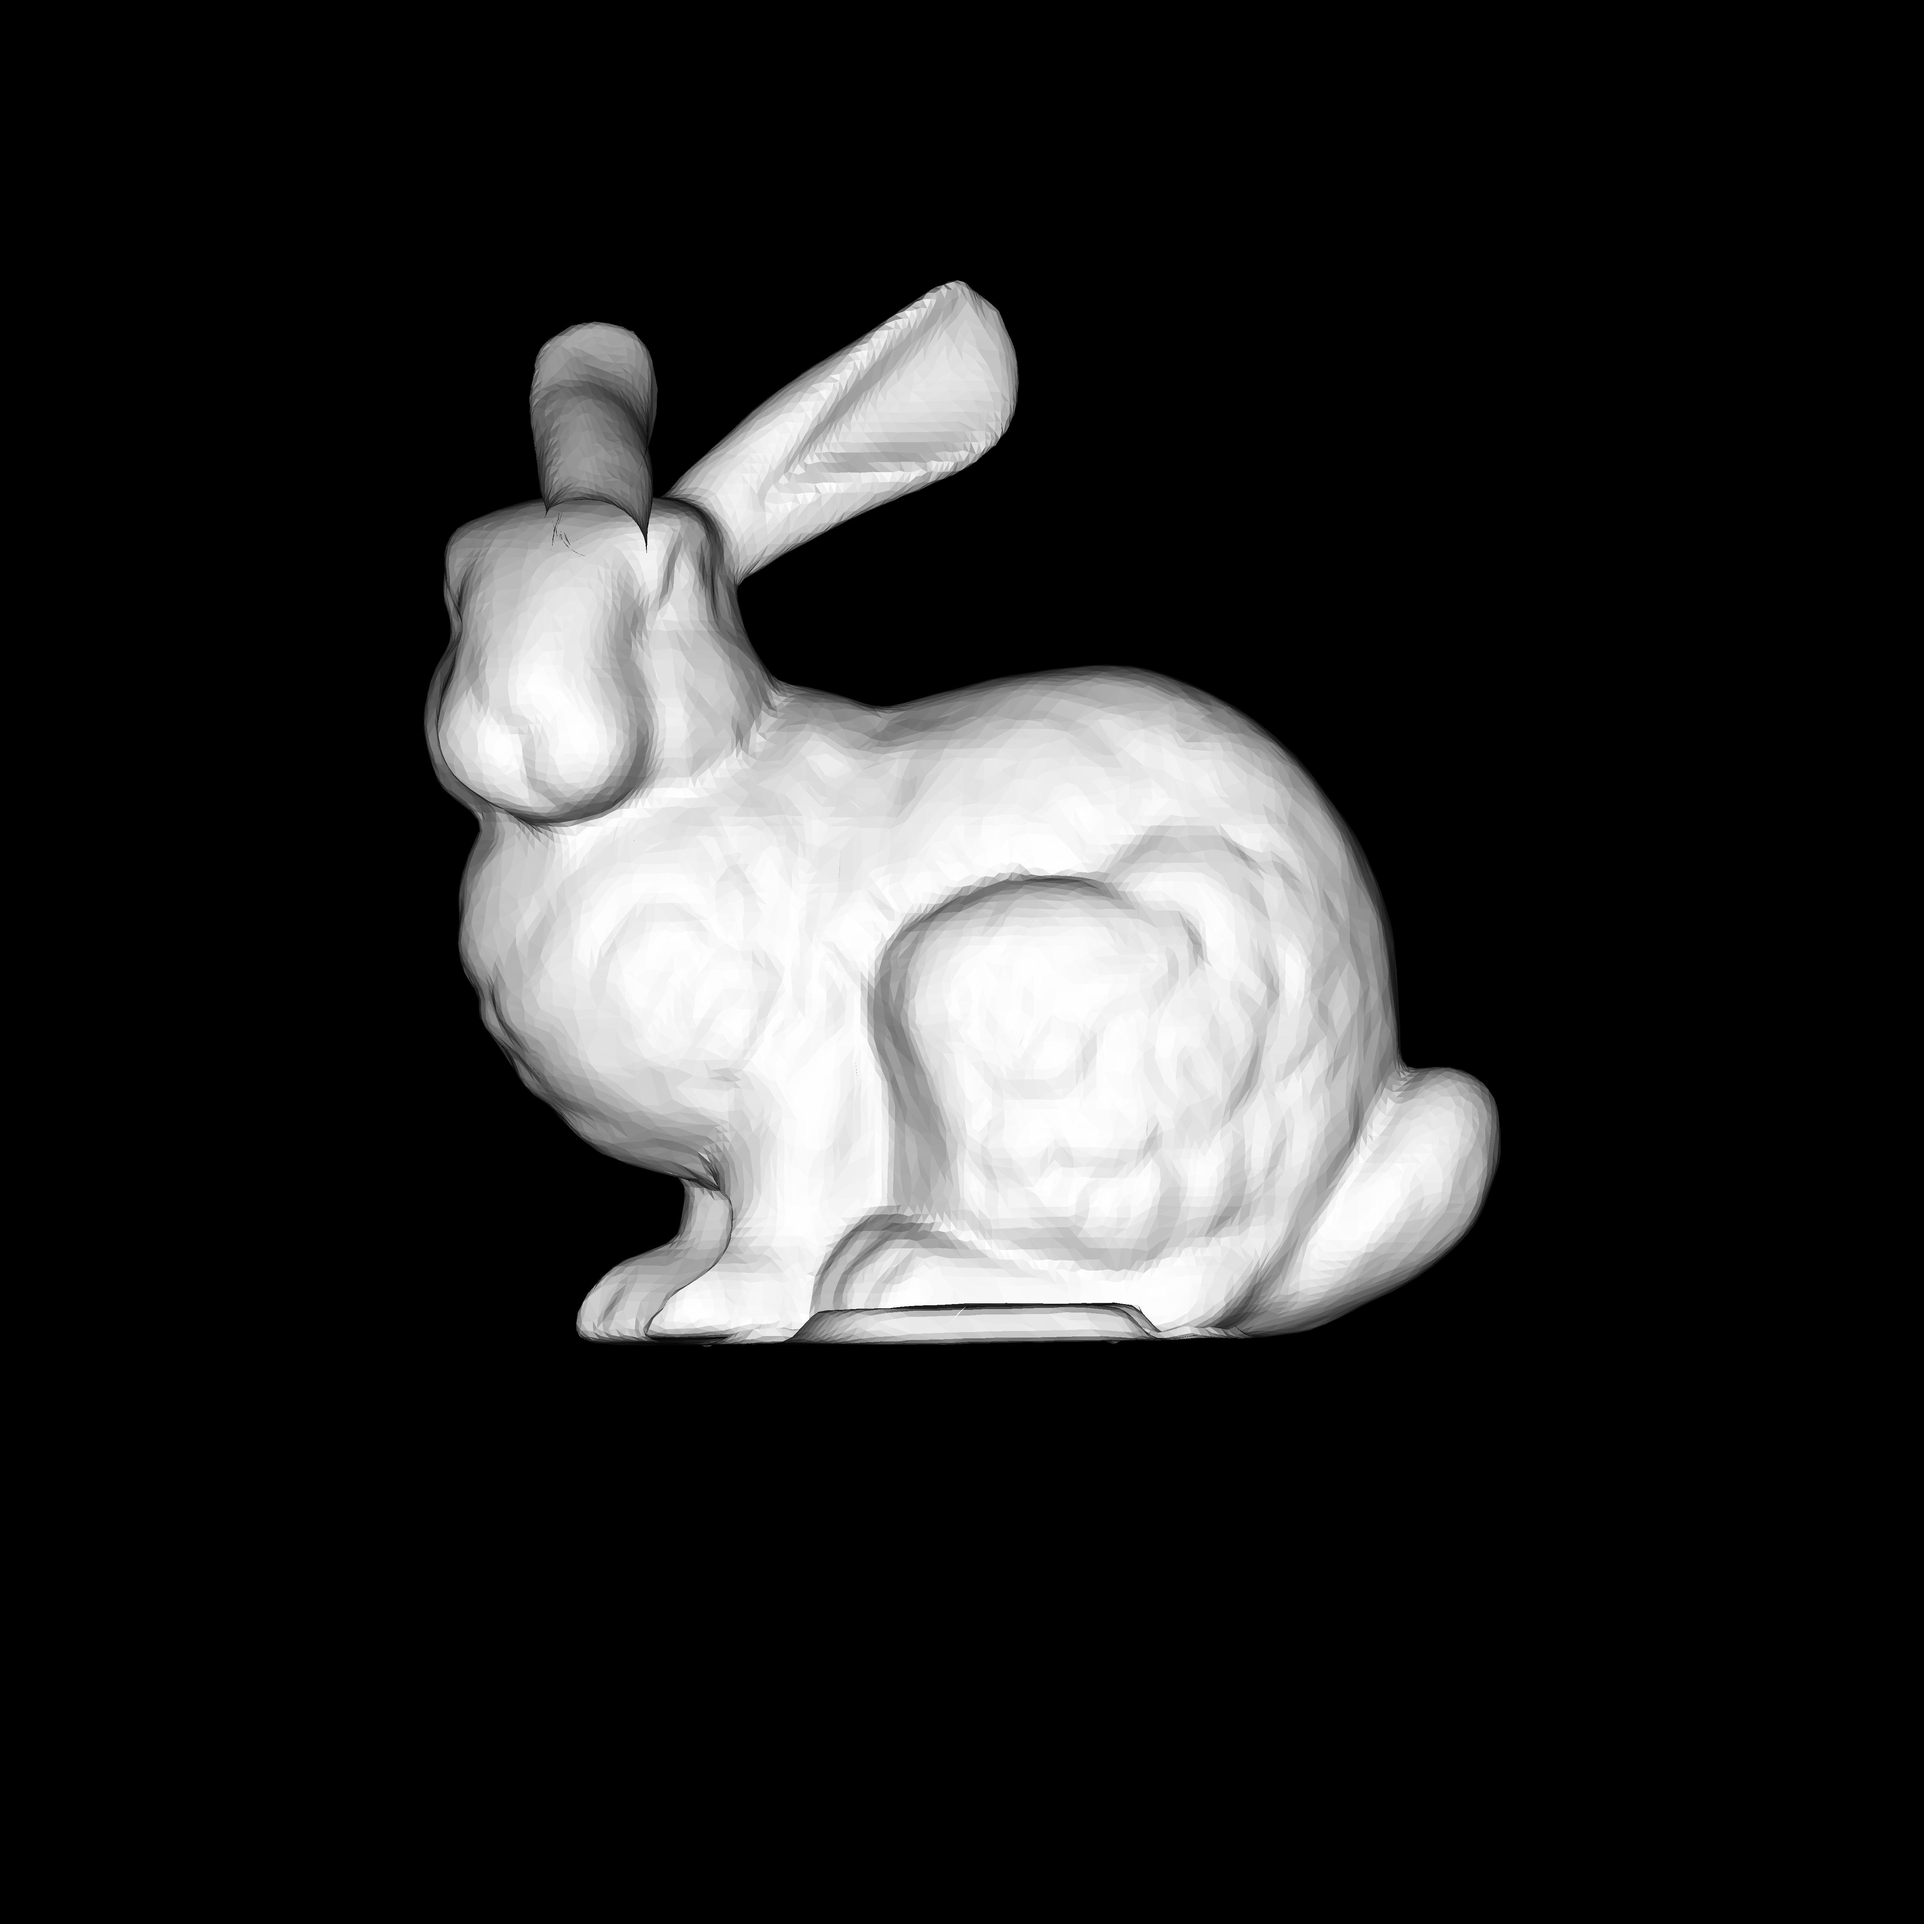
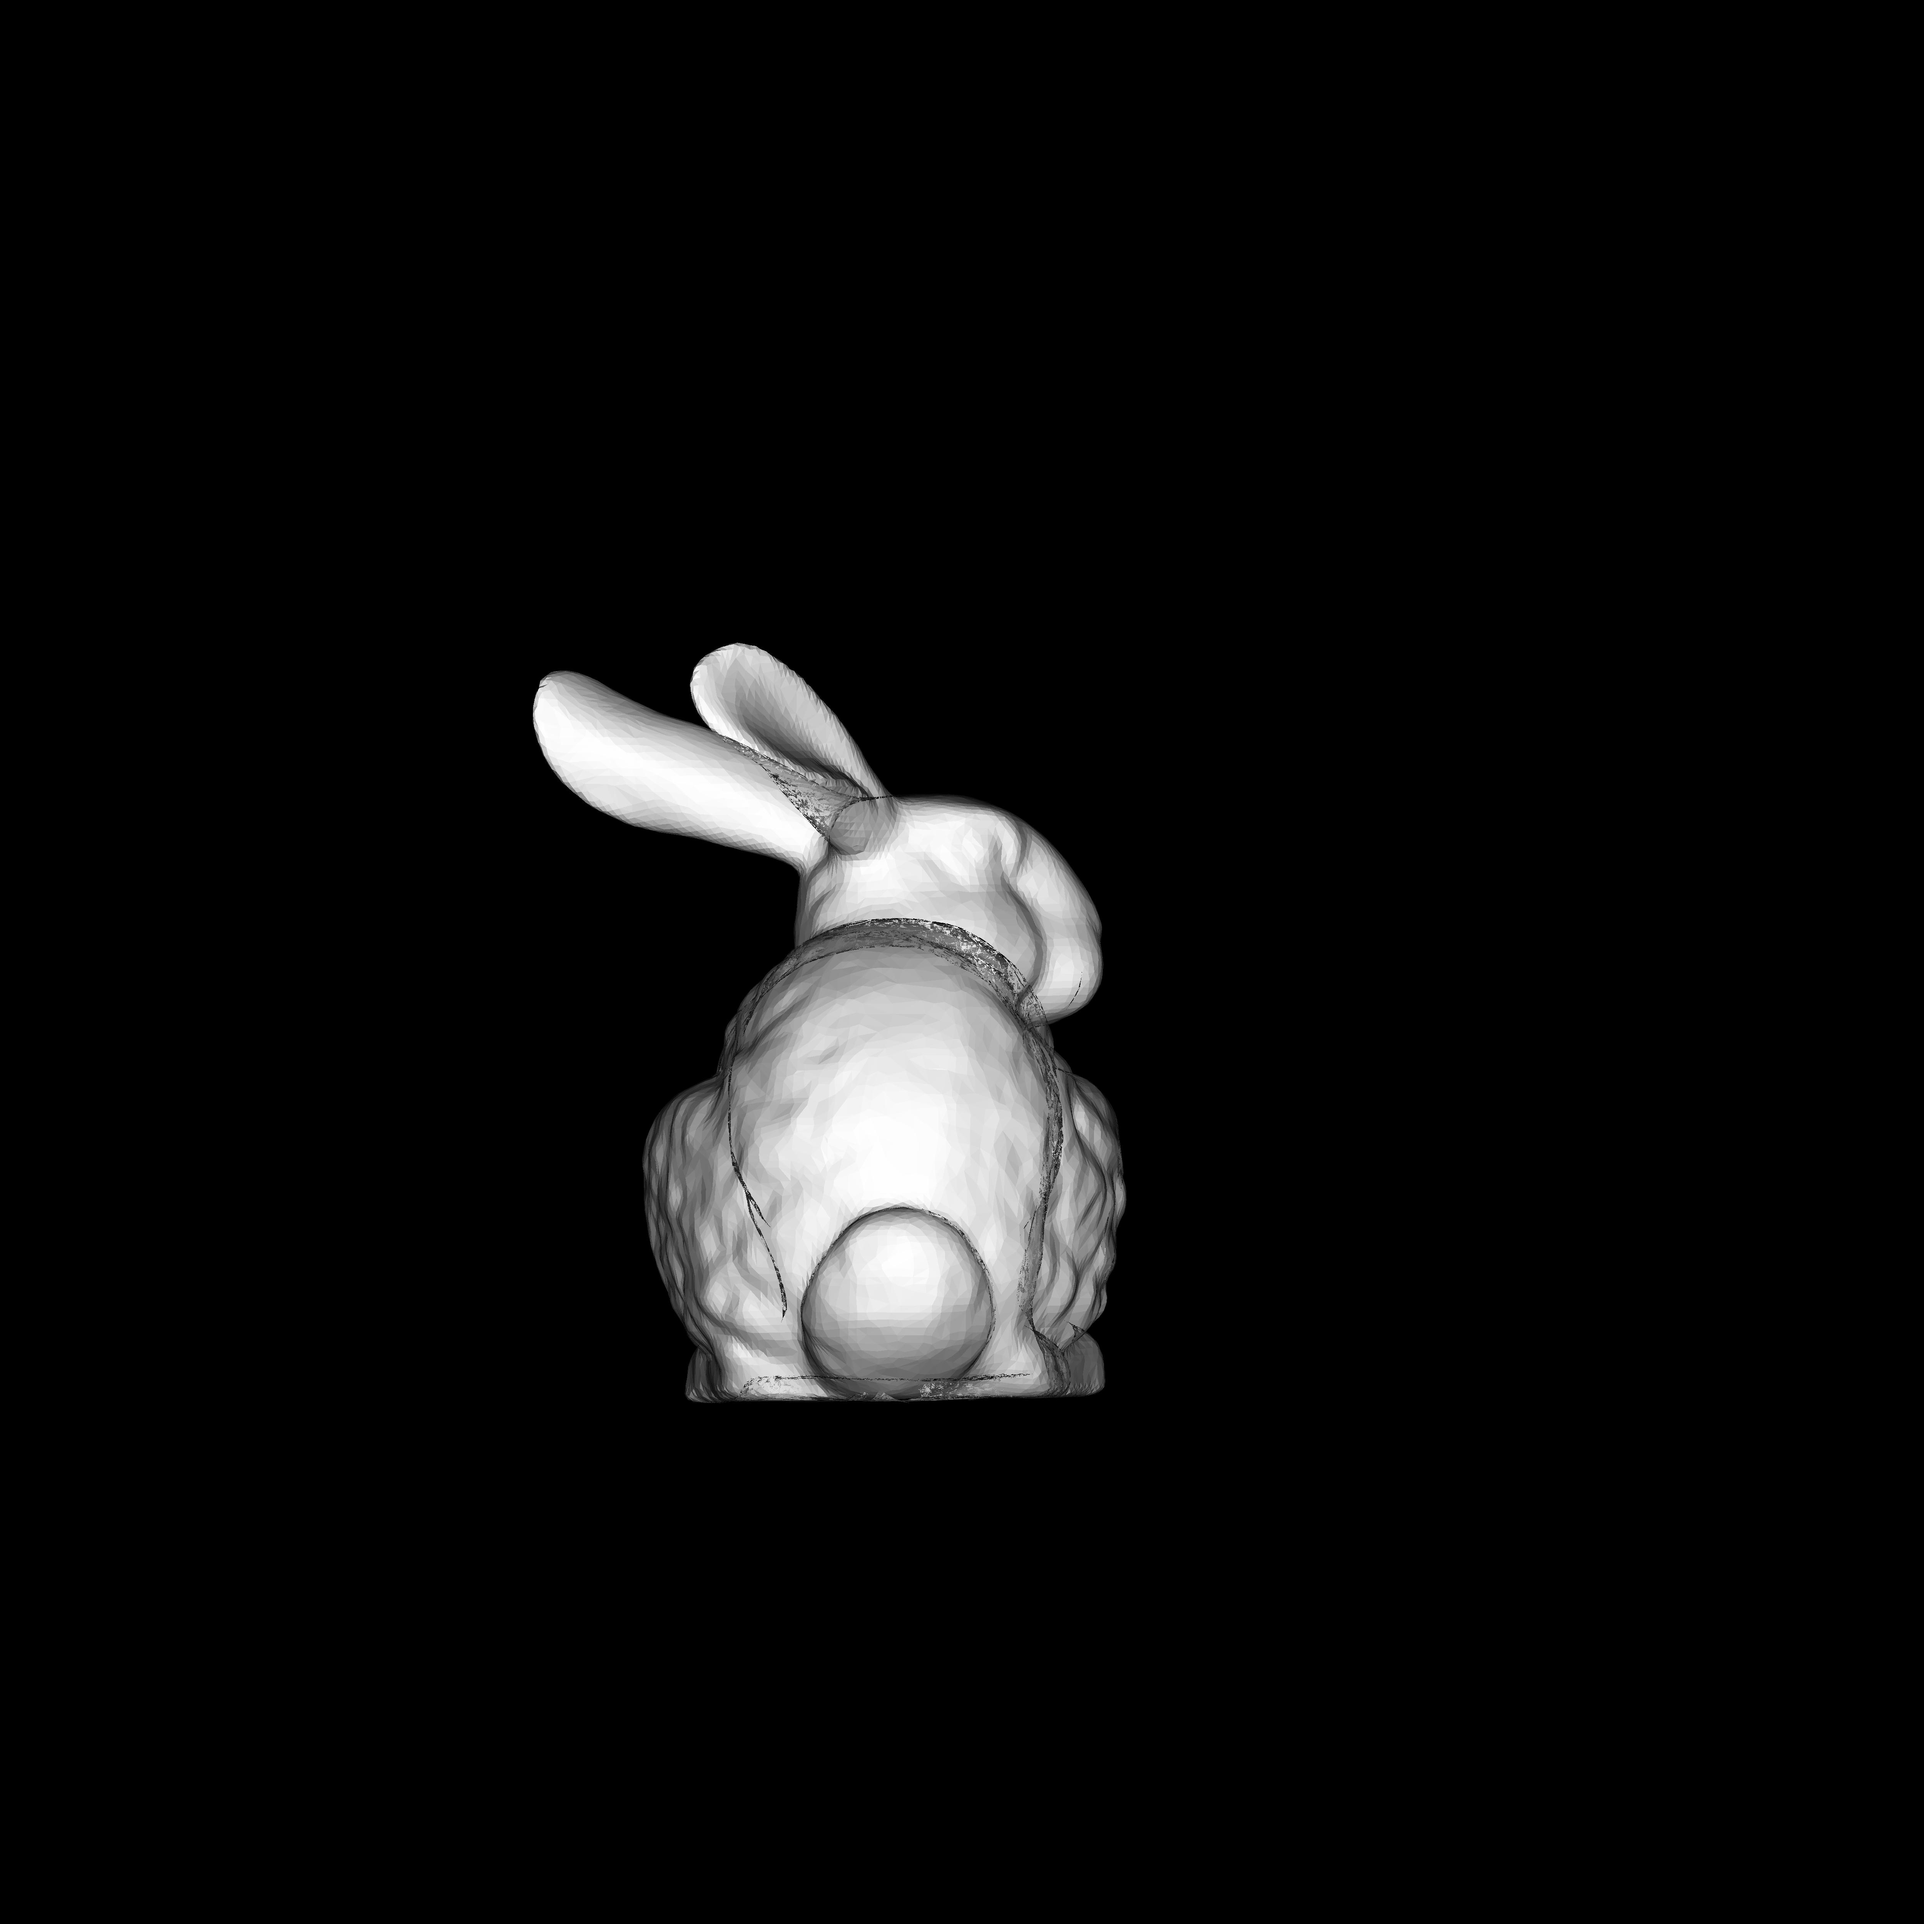
Initial commit

Changed region(s): [[0.2184, 0.1248, 0.78, 0.7488]]

diff --git a/tasks12-17.py b/tasks12-17.py
@@ -44,13 +44,18 @@ def draw_polygons(image):
     z_buf = Z_buf()
     for polygon in parser.polygon_list:
         triangle = []
+        triangle_proj = []
         for point in polygon:
             x, y, z = parser.vertex_list[point - 1]
-            triangle.append((28000 * x + 2500, 28000 * y + 1500, 20000 * z + 2000))
+            t_coord = turn_coord(x, y, z)
+            x, y, z = t_coord[0],t_coord[1],t_coord[2]
+            coord = proj_coord(x,y,z)
+            triangle.append((x, y, z))
+            triangle_proj.append((coord[0],coord[1],1))
         n = count_norm(triangle)
         cos = get_cos(n)
         if cos < 0:
-         draw_triangles(triangle[0][0], triangle[0][1], triangle[0][2], triangle[1][0], triangle[1][1], triangle[1][2], triangle[2][0], triangle[2][1], triangle[2][2], image, (-int(255 * cos),-int(255 * cos),-int(255 * cos)), size, z_buf)
+         draw_triangles(triangle_proj[0][0], triangle_proj[0][1], triangle_proj[0][2], triangle_proj[1][0], triangle_proj[1][1], triangle_proj[1][2], triangle_proj[2][0], triangle_proj[2][1], triangle_proj[2][2], image, (-int(255 * cos),-int(255 * cos),-int(255 * cos)), size, z_buf)
         else:
             continue
     image.save("images/PozhiloyRabbitPolygonsTrianglesLight.jpg", "JPEG")
@@ -59,13 +64,38 @@ def count_norm(triangle):
     return np.cross([triangle[1][0] - triangle[0][0], triangle[1][1] - triangle[0][1], triangle[1][2] - triangle[0][2]], [triangle[1][0] - triangle[2][0], triangle[1][1] - triangle[2][1], triangle[1][2] - triangle[2][2]])
 
 def get_cos(n):
-    return np.dot(n,[0, 0, 1])/(LA.norm(n)*LA.norm([0, 0, 1]))
+    return np.dot(n,[0, 0, -1])/(LA.norm(n)*LA.norm([0, 0, -1]))
 
+def proj_coord(x,y,z):
+    init_vec = np.array([[x], [y], [z]])
+    ax = 20000
+    ay = 20000
+    u0 = 150
+    v0 = 150
+    t_vec = np.array([[0.005], [-0.045], [15]])
+    matrix =  np.array([[ax,0,u0], [0,ay,v0], [0,0,1]])
+    final_vec = matrix.dot(init_vec+t_vec)
+    return final_vec[0][0],final_vec[1][0]
+
+def turn_coord(x,y,z):
+    init_vec = np.array([[x], [y], [z]])
+    alpha = 0
+    beta = 1.57
+    gamma = 0
+    R_1 = np.array([[1,0,0], [0,np.cos(alpha),np.sin(alpha)], [0,-np.sin(alpha),np.cos(alpha)]])
+    R_2 = np.array([[np.cos(beta),0,np.sin(beta)], [0,1,0], [-np.sin(beta),0,np.cos(beta)]])
+    R_3 = np.array([[np.cos(gamma), np.sin(gamma), 0], [-np.sin(gamma), np.cos(gamma), 0], [0, 0, 1]])
+    final_vec = ((R_1.dot(R_2)).dot(R_3)).dot(init_vec)
+    return final_vec[0][0],final_vec[1][0], final_vec[2][0]
 
 
 size = 5000
 image = Image.new('RGB', (size, size))
 draw_polygons(image)
+
+
+
+
 
 
 
